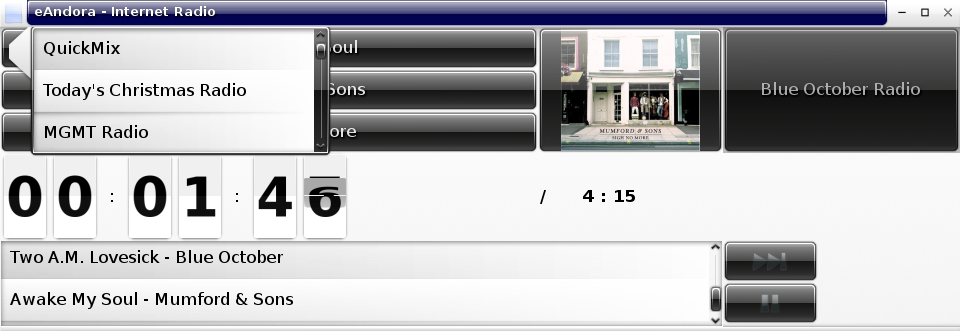
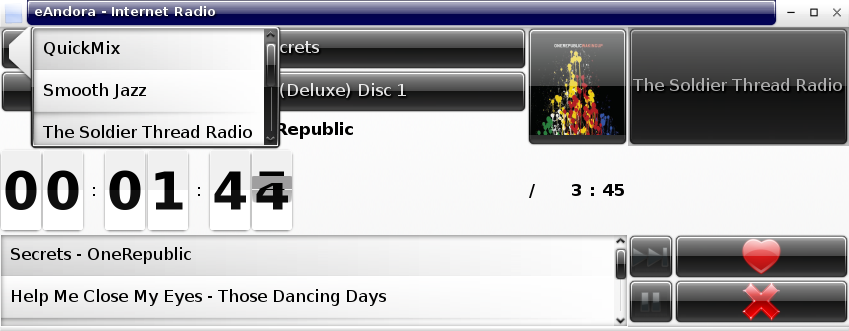
Added a rating buttons and tool tips. Cleaned up some of the code.

diff --git a/eAndora.py b/eAndora.py
@@ -15,6 +15,15 @@ import time
 import pandora
 import vlc
 import urllib
+import webbrowser
+
+def openBrowser(url):
+    print "Opening %s"%url
+    webbrowser.open(url)
+    try:
+        os.wait() # workaround for http://bugs.python.org/issue5993
+    except:
+        pass
 
 class eAndora:
     def __init__( self ):
@@ -30,10 +39,11 @@ class eAndora:
         self.skinName = "Default"
         self.song = None
         self.songinfo = []
+        self.displaysongs = []
         self.player = vlc.MediaPlayer()
         self.event_manager = self.player.event_manager()
         self.event_manager.event_attach(vlc.EventType.MediaPlayerEndReached,      self.nextSong)
-        self.counter = 0
+        self.songCount = 0
 
     def setGUI( self, GUI):
         self.gui = GUI
@@ -44,7 +54,6 @@ class eAndora:
         self.settings['password'] = passwd
         try:
             self.pandora.connect(self.settings['username'], self.settings['password'])
-            #self.gui.interface_clicked(None)
         except:
             self.gui.login_error(None)
 
@@ -88,9 +97,28 @@ class eAndora:
             mins += 1
         return mins, seconds
 
+    def getSongRating( self ):
+        return self.songinfo[self.curSong]['rating']
+
+    def showSong( self ):
+        openBrowser(self.songinfo[self.curSong]['object'].songDetailURL)
+
+    def showAlbum( self ):
+        openBrowser(self.songinfo[self.curSong]['object'].albumDetailURL)
+
+    def banSong( self ):
+        info = self.songinfo[self.curSong]
+        info['object'].rate('ban')
+
+    def loveSong( self ):
+        info = self.songinfo[self.curSong]
+        info['object'].rate('love')
+
     def clearSongs( self ):
         self.song = None
+        self.songCount = 0
         self.songinfo = []
+        self.displaysongs = []
 
     def addSongs( self ):
         playlist = self.curStation.get_playlist()
@@ -99,43 +127,51 @@ class eAndora:
         	 "artist"	:	song.artist, \
         	 "album"	:	song.album, \
         	 "thumbnail"	:	song.artRadio, \
-             "url"      : str(song.audioUrl)
+             "url"      : str(song.audioUrl), \
+             "rating"   : song.rating, \
+             "object"   : song
         	}
             self.songinfo.append(info)
         if not self.song:
             self.startPlaying()
-        self.gui.refreshInterface()
 
     def startPlaying( self ):
         self.curSong = -1
         self.nextSong()
 
     def nextSong( self , event=False):
-        #print("Debug 1")
+        print("Debug 1")
         if self.player.is_playing():
             self.player.stop()
         else:
-            #print("Debug 11")
+            print("Debug 2")
             self.player = vlc.MediaPlayer()
             self.event_manager = self.player.event_manager()
             self.event_manager.event_attach(vlc.EventType.MediaPlayerEndReached,      self.nextSong)
-        #print("Debug 2")
+        print("Debug 3")
         self.curSong += 1
-        #print("Debug 2")
-        if self.curSong >= len(self.songinfo)-1:
-            #print("Debug 3")
-            self.addSongs()
-        #print("Debug 4")
         info = self.songinfo[self.curSong]
+        self.displaysongs.append(info)
         self.song = info['title']
-        #print(info)
-        #print("Debug 5")
+        print(info)
+        print("Debug 4")
         self.player.set_media(vlc.Media(info['url']))
-        #print("Debug 6")
+        print("Debug 5")
         self.playing = True
         self.player.play()
-        #print("Debug 7")
+        print("Debug 6")
         self.gui.song_change()
+        print("Debug 7")
+        #self.curSong += 1
+        if self.curSong >= len(self.songinfo)-1:
+            print("Debug 8")
+            self.addSongs()
+        print("Debug 9")
+        self.songCount += 1
+        if self.songCount >= 15:
+            print("Debug 10")
+            self.songCount = 0
+            self.auth(self.settings['username'], self.settings['password'])
 
 class Interface:
 
@@ -148,13 +184,36 @@ class Interface:
         self.tb = None
         self.thumb = elementary.Button(self.mainWindow)
         self.song = elementary.Button(self.mainWindow)
-        self.artist = elementary.Button(self.mainWindow)
+        #self.song.style_set("anchor")
+        self.artist = elementary.Label(self.mainWindow)
         self.album = elementary.Button(self.mainWindow)
+        #self.album.style_set("anchor")
+        self.rating = elementary.Button(self.mainWindow)
         self.counter = [elementary.Clock(self.mainWindow), elementary.Label(self.mainWindow), elementary.Label(self.mainWindow)]
         self.pauseTime = None
 
+    def ban_track( self, bt ):
+        self.ourPlayer.banSong()
+        self.ourPlayer.skipSong()
+
+    def love_track( self, bt ):
+        self.ourPlayer.loveSong()
+        ic = elementary.Icon(self.mainWindow)
+        ic.file_set('images/love.png')
+        self.rating.hide()
+        self.rating.tooltip_text_set("Song already liked")
+        self.rating.content_set(ic)
+        self.rating.show()
+
+    def show_song( self, bt ):
+        self.ourPlayer.showSong()
+
+    def show_album( self, bt ):
+        self.ourPlayer.showAlbum()
+
     def song_change( self ):
         info = self.ourPlayer.getCurSongInfo()
+        print("DEBUG: Changing Album Art")
         try:
             os.remove('/tmp/albumart.jpg')
         except:
@@ -163,52 +222,58 @@ class Interface:
         ic = elementary.Icon(self.mainWindow)
         ic.file_set('/tmp/albumart.jpg')
         self.thumb.show()
-        self.thumb.size_hint_weight_set(evas.EVAS_HINT_EXPAND, evas.EVAS_HINT_EXPAND)
-        self.thumb.size_hint_align_set(evas.EVAS_HINT_FILL, evas.EVAS_HINT_FILL)
         self.thumb.content_set(ic)
-        self.tb.pack(self.thumb, 2, 0, 2, 3)
         self.thumb.show()
 
+        print("DEBUG: Changing song title")
         self.song.hide()
-        self.song.size_hint_weight_set(evas.EVAS_HINT_EXPAND, evas.EVAS_HINT_EXPAND)
-        self.song.size_hint_align_set(evas.EVAS_HINT_FILL, evas.EVAS_HINT_FILL)
         self.song.text_set("Song: %s"%info['title'])
-        self.tb.pack(self.song, 0, 0, 2, 1)
         self.song.show()
 
-        self.artist.hide()
-        self.artist.size_hint_weight_set(evas.EVAS_HINT_EXPAND, evas.EVAS_HINT_EXPAND)
-        self.artist.size_hint_align_set(evas.EVAS_HINT_FILL, evas.EVAS_HINT_FILL)
-        self.artist.text_set("Artist: %s"%info['artist'])
-        self.tb.pack(self.artist, 0, 1, 2, 1)
-        self.artist.show()
-
+        print("DEBUG: Changing album title")
         self.album.hide()
         self.album.text_set("Album: %s"%info['album'])
-        self.album.size_hint_weight_set(evas.EVAS_HINT_EXPAND, evas.EVAS_HINT_EXPAND)
-        self.album.size_hint_align_set(evas.EVAS_HINT_FILL, evas.EVAS_HINT_FILL)
-        self.tb.pack(self.album, 0, 2, 2, 1)
         self.album.show()
 
+        print("DEBUG: Changing artist")
+        self.artist.hide()
+        self.artist.text_set("<b><div align='center'>Artist: %s</div></b>"%info['artist'])
+        self.artist.show()
+
+        print("DEBUG: Changing clock to zero")
         self.counter[0].hide()
-        self.counter[0].size_hint_weight_set(evas.EVAS_HINT_EXPAND, evas.EVAS_HINT_EXPAND)
-        self.counter[0].size_hint_align_set(evas.EVAS_HINT_FILL, evas.EVAS_HINT_FILL)
-        self.counter[0].show_seconds_set(True)
         self.counter[0].time_set(0, 0, 0)
-        self.tb.pack(self.counter[0], 0, 3, 1, 1)
         self.counter[0].show()
 
+        print("DEBUG: Changing total time")
         self.counter[1].hide()
-        self.counter[1].size_hint_weight_set(evas.EVAS_HINT_EXPAND, evas.EVAS_HINT_EXPAND)
-        self.counter[1].size_hint_align_set(evas.EVAS_HINT_FILL, evas.EVAS_HINT_FILL)
-        time.sleep(0.5)
-        mins, seconds = self.ourPlayer.getSongDuration()
+        mins, seconds = 0, 0
+        while not mins and not seconds:
+            time.sleep(0.5)
+            mins, seconds = self.ourPlayer.getSongDuration()
         if int(seconds) > 9:
             self.counter[1].text_set("<b>/      %s : %s</b>"%(mins, int(seconds)))
         else:
             self.counter[1].text_set("<b>/      %s : 0%s</b>"%(mins, int(seconds)))
-        self.tb.pack(self.counter[1], 2, 3, 1, 1)
         self.counter[1].show()
+
+        print("DEBUG: Changing ratings")
+        self.rating.hide()
+        ic = elementary.Icon(self.mainWindow)
+        rating = self.ourPlayer.getSongRating()
+        if not rating:
+            ic.file_set('images/favorite.png')
+            self.rating.tooltip_text_set("Like Song")
+        elif rating == 'love':
+            ic.file_set('images/love.png')
+            self.rating.tooltip_text_set("Song already liked")
+        else:
+            ic.file_set('images/ban.png')
+        self.rating.content_set(ic)
+        self.rating.show()
+
+        print("DEBUG: Adding song to list")
+        self.refreshInterface()
 
         print("Hey look the song changed!")
 
@@ -380,21 +445,18 @@ class Interface:
         self.ourPlayer.skipSong()
 
     def cb_items(self, li, item):
-        self.ourPlayer.pauseSong()
+        print(("ctxpopup item selected: %s" % (item.text)))
+        self.refreshInterface(True)
         self.ourPlayer.setStation(self.ourPlayer.getStationFromName(item.text))
+        self.ourPlayer.pauseSong()
         self.ourPlayer.clearSongs()
         self.ourPlayer.addSongs()
-        self.ourPlayer.playSong()
-        self.refreshInterface(clear=True)
-        print(("ctxpopup item selected: %s" % (item.text)))
 
     def refreshInterface( self, clear=False ):
         if clear:
             self.songList.clear()
-        songinfo = self.ourPlayer.getSongInfo()
-        for song in songinfo:
-            if songinfo.index(song) >= len(songinfo) - 4:
-                self.songList.item_prepend("%s - %s"%(song['title'], song['artist']))
+        info = self.ourPlayer.getCurSongInfo()
+        self.songList.item_prepend("%s - %s"%(info['title'], info['artist']))
         self.songList.show()
         self.songList.go()
         self.stationButton.text_set(str(self.ourPlayer.getStation().name))
@@ -438,6 +500,7 @@ class Interface:
         self.tb.size_hint_weight_set(evas.EVAS_HINT_EXPAND, evas.EVAS_HINT_EXPAND)
         self.tb.show()
 
+        self.stationButton.tooltip_text_set("Change Stations")
         self.stationButton.size_hint_weight_set(evas.EVAS_HINT_EXPAND, evas.EVAS_HINT_EXPAND)
         self.stationButton.size_hint_align_set(evas.EVAS_HINT_FILL, evas.EVAS_HINT_FILL)
         self.stationButton.callback_unpressed_add(self.station_selection)
@@ -446,6 +509,16 @@ class Interface:
         self.songList.size_hint_weight_set(evas.EVAS_HINT_EXPAND, evas.EVAS_HINT_EXPAND)
         self.songList.size_hint_align_set(evas.EVAS_HINT_FILL, evas.EVAS_HINT_FILL)
         self.tb.pack(self.songList, 0, 4, 4, 3)
+
+        ic = elementary.Icon(self.mainWindow)
+        ic.file_set("images/skip.png")
+        bt = elementary.Button(self.mainWindow)
+        bt.size_hint_weight_set(evas.EVAS_HINT_EXPAND, evas.EVAS_HINT_EXPAND)
+        bt.size_hint_align_set(evas.EVAS_HINT_FILL, evas.EVAS_HINT_FILL)
+        bt.content_set(ic)
+        bt.callback_unpressed_add(self.skip_track)
+        self.tb.pack(bt, 4, 4, 1, 1)
+        bt.show()
 
         ic = elementary.Icon(self.mainWindow)
         ic.file_set("images/pause.png")
@@ -458,14 +531,50 @@ class Interface:
         bt.show()
 
         ic = elementary.Icon(self.mainWindow)
-        ic.file_set("images/skip.png")
+        ic.file_set("images/ban.png")
         bt = elementary.Button(self.mainWindow)
+        bt.tooltip_text_set("Ban Song")
         bt.size_hint_weight_set(evas.EVAS_HINT_EXPAND, evas.EVAS_HINT_EXPAND)
         bt.size_hint_align_set(evas.EVAS_HINT_FILL, evas.EVAS_HINT_FILL)
         bt.content_set(ic)
-        bt.callback_unpressed_add(self.skip_track)
-        self.tb.pack(bt, 4, 4, 1, 1)
+        bt.callback_unpressed_add(self.ban_track)
+        self.tb.pack(bt, 5, 5, 1, 1)
         bt.show()
+
+        #Define callbacks for all our buttons that will be updated
+        #Button content is generated on song change
+
+        self.thumb.size_hint_weight_set(evas.EVAS_HINT_EXPAND, evas.EVAS_HINT_EXPAND)
+        self.thumb.size_hint_align_set(evas.EVAS_HINT_FILL, evas.EVAS_HINT_FILL)
+        self.tb.pack(self.thumb, 2, 0, 2, 3)
+
+        self.song.callback_pressed_add(self.show_song)
+        self.song.size_hint_weight_set(evas.EVAS_HINT_EXPAND, evas.EVAS_HINT_EXPAND)
+        self.song.size_hint_align_set(evas.EVAS_HINT_FILL, evas.EVAS_HINT_FILL)
+        self.tb.pack(self.song, 0, 0, 2, 1)
+
+        self.album.callback_pressed_add(self.show_album)
+        self.album.size_hint_weight_set(evas.EVAS_HINT_EXPAND, evas.EVAS_HINT_EXPAND)
+        self.album.size_hint_align_set(evas.EVAS_HINT_FILL, evas.EVAS_HINT_FILL)
+        self.tb.pack(self.album, 0, 1, 2, 1)
+
+        self.rating.callback_unpressed_add(self.love_track)
+        self.artist.size_hint_weight_set(evas.EVAS_HINT_EXPAND, evas.EVAS_HINT_EXPAND)
+        self.artist.size_hint_align_set(evas.EVAS_HINT_FILL, evas.EVAS_HINT_FILL)
+        self.tb.pack(self.artist, 0, 2, 2, 1)
+
+        self.counter[0].size_hint_weight_set(evas.EVAS_HINT_EXPAND, evas.EVAS_HINT_EXPAND)
+        self.counter[0].size_hint_align_set(evas.EVAS_HINT_FILL, evas.EVAS_HINT_FILL)
+        self.counter[0].show_seconds_set(True)
+        self.tb.pack(self.counter[0], 0, 3, 1, 1)
+
+        self.counter[1].size_hint_weight_set(evas.EVAS_HINT_EXPAND, evas.EVAS_HINT_EXPAND)
+        self.counter[1].size_hint_align_set(evas.EVAS_HINT_FILL, evas.EVAS_HINT_FILL)
+        self.tb.pack(self.counter[1], 2, 3, 1, 1)
+
+        self.rating.size_hint_weight_set(evas.EVAS_HINT_EXPAND, evas.EVAS_HINT_EXPAND)
+        self.rating.size_hint_align_set(evas.EVAS_HINT_FILL, evas.EVAS_HINT_FILL)
+        self.tb.pack(self.rating, 5, 4, 1, 1)
 
         songinfo = self.ourPlayer.getSongInfo()
 
